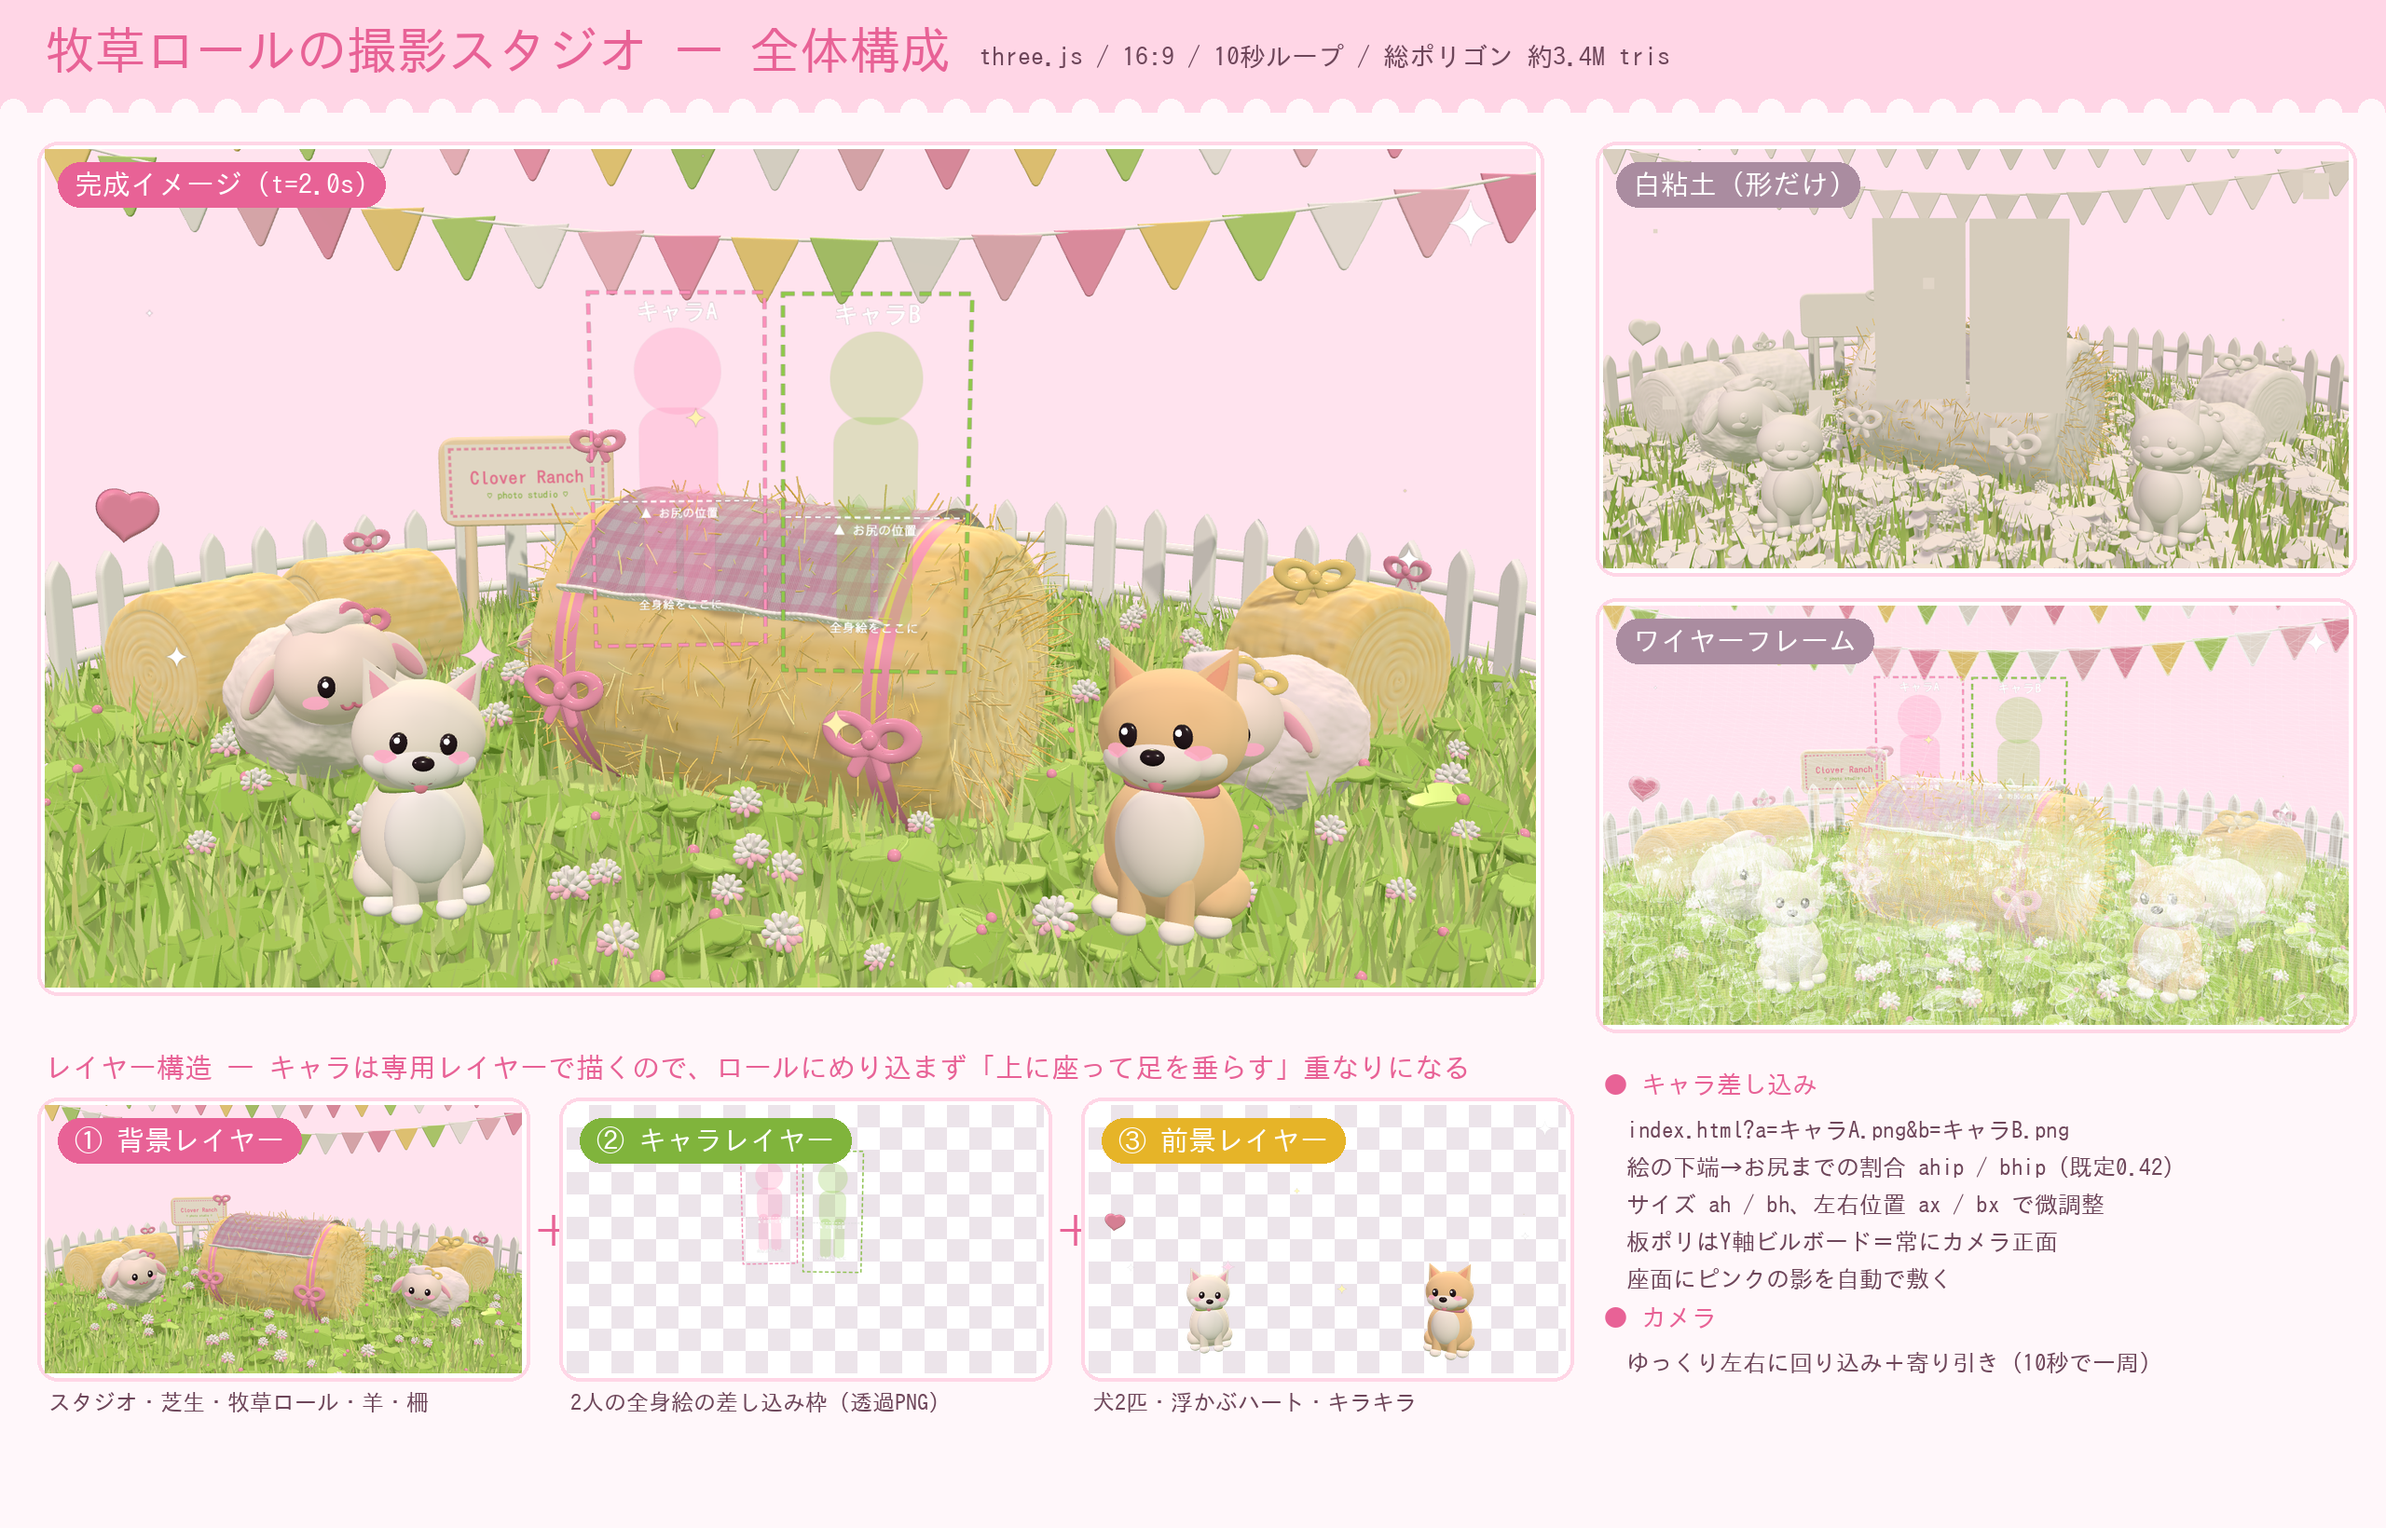
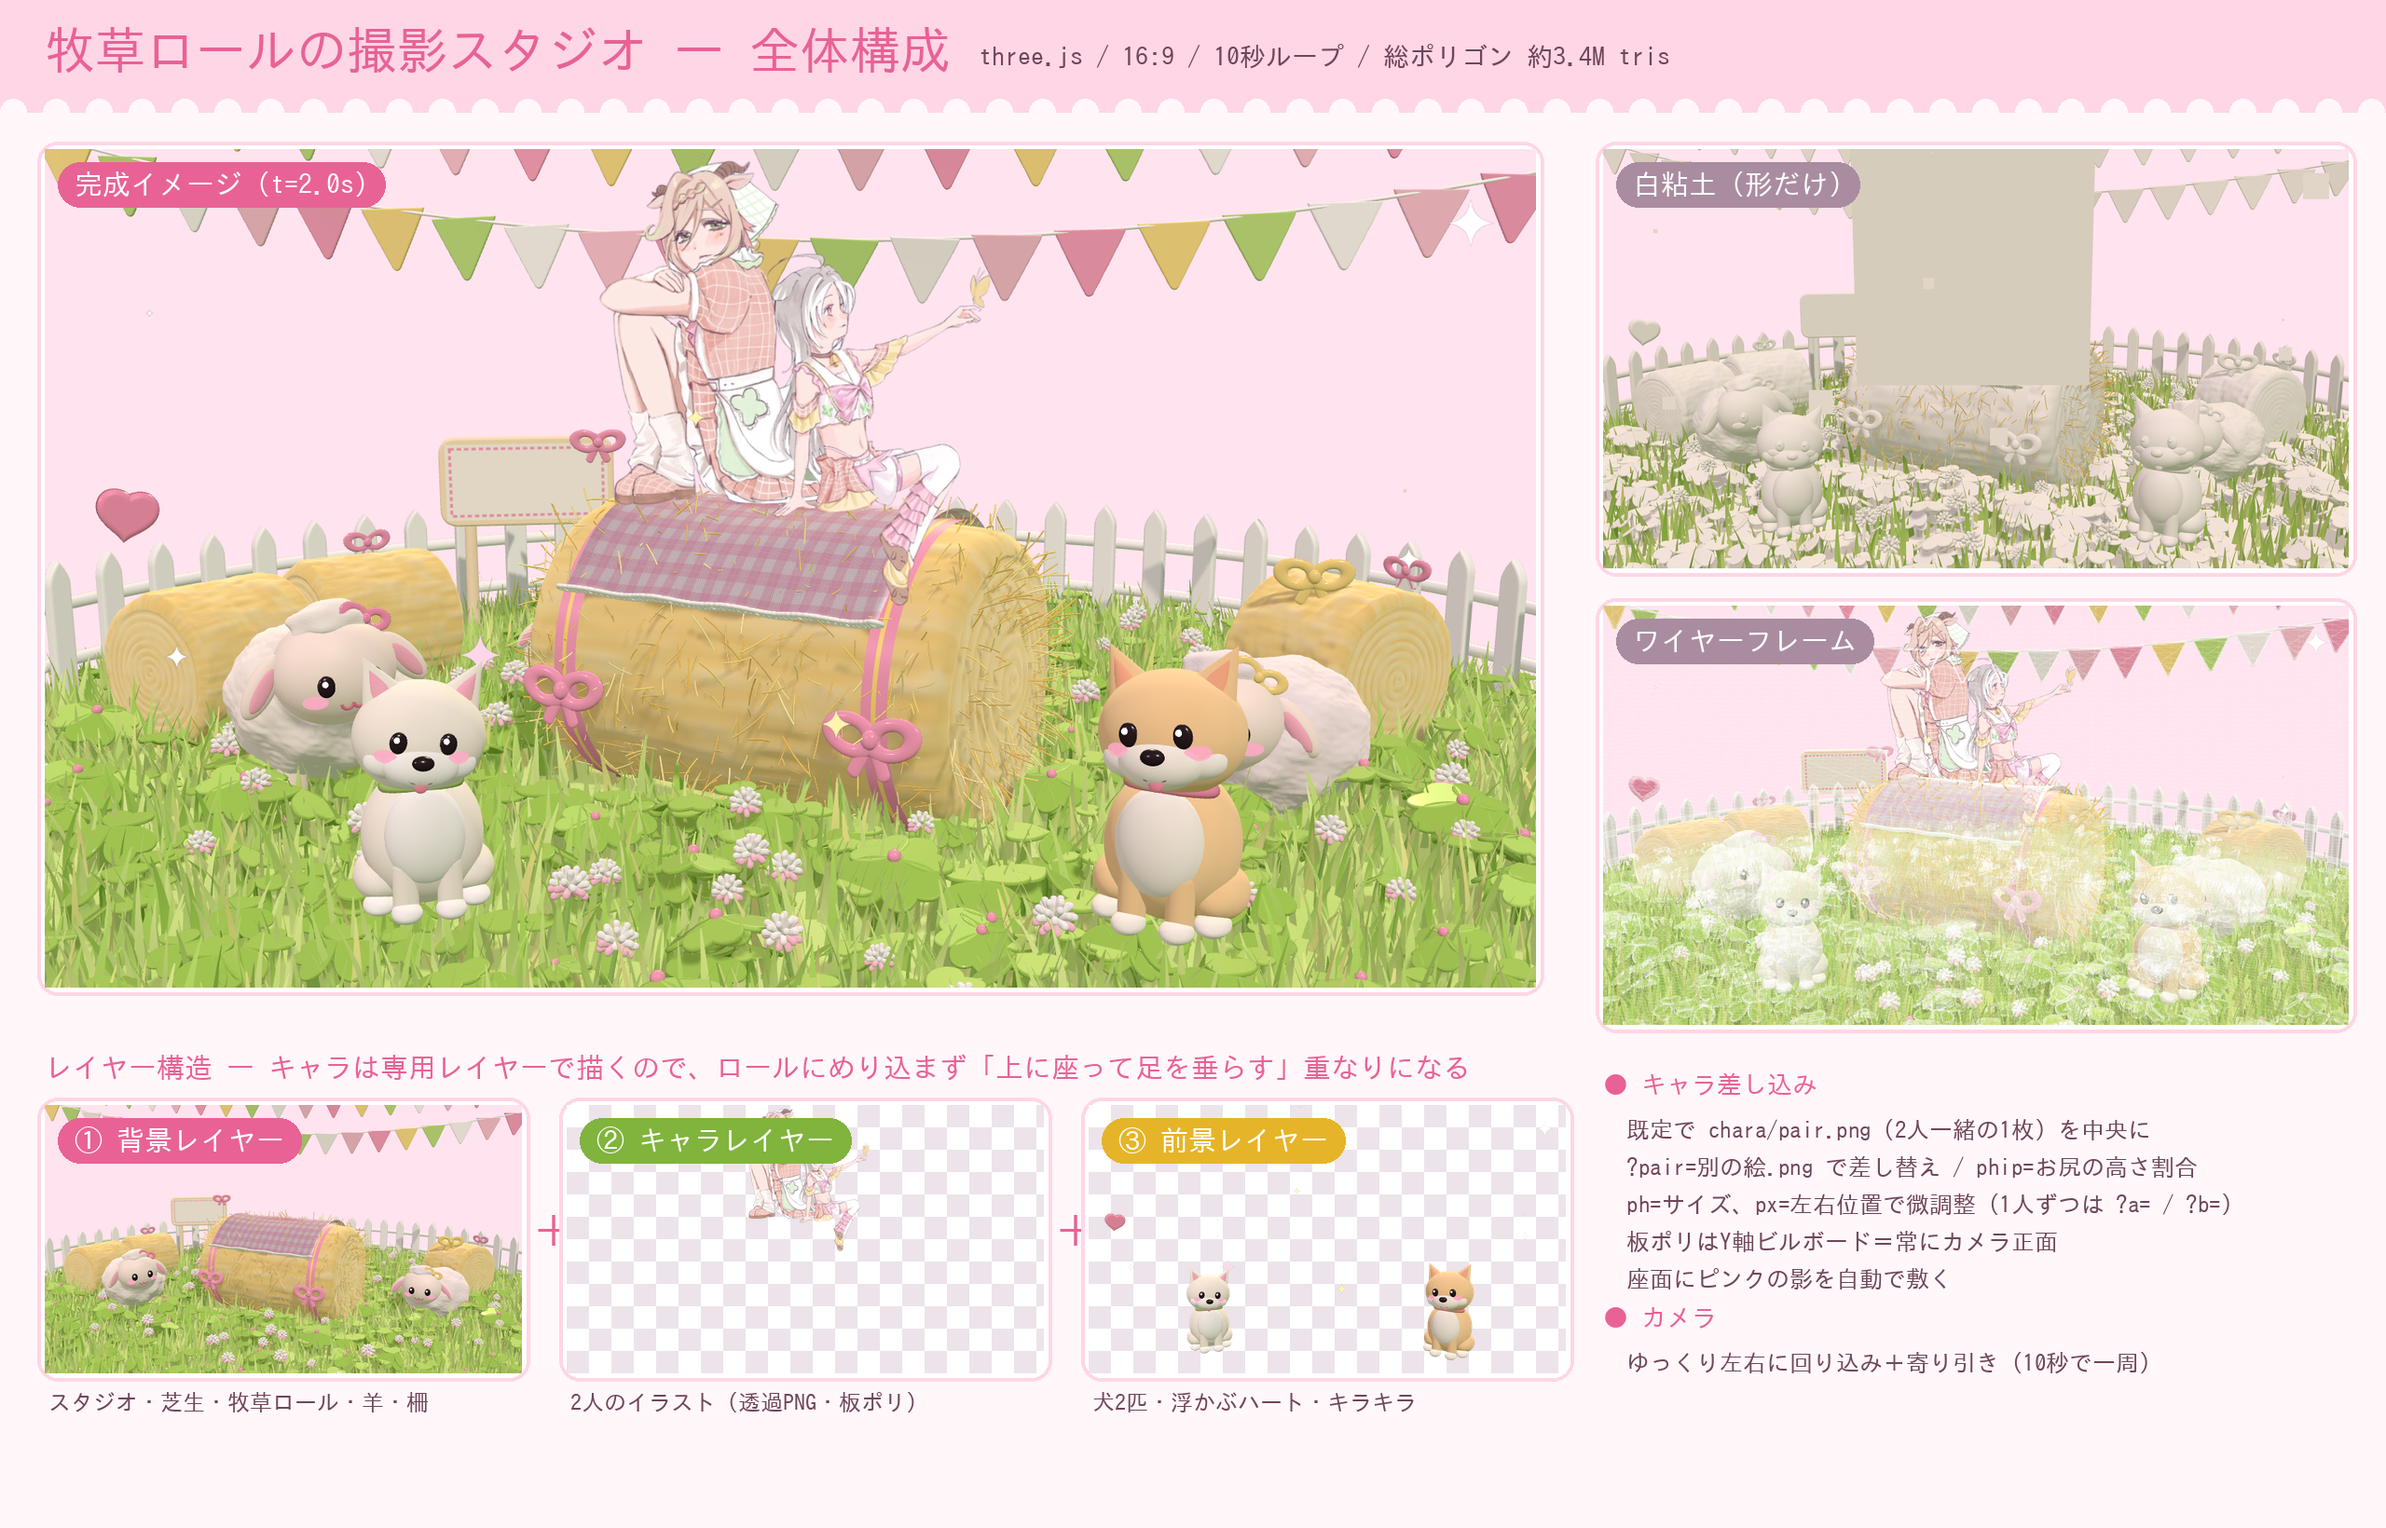
牧草ロールに2人のイラストを座らせ、看板の文字を消す
2人一緒の1枚絵 (chara/pair.png) をロール中央に配置する pair モードを追加。
イラストにはフォグをかけず元の色のまま表示。構造シートも更新。

Claude-Session: https://claude.ai/code/session_01JuB6ih2PB3w1JoY32XR6sq

diff --git a/ranch_studio/index.html b/ranch_studio/index.html
@@ -392,8 +392,7 @@ function makeSoftbox(){
 {
   const tex=canvasTex(1024,512,(g,w,h)=>{g.fillStyle='#fffaf3';g.fillRect(0,0,w,h);
     g.strokeStyle='#ff9fc4';g.lineWidth=18;g.setLineDash([28,18]);g.strokeRect(30,30,w-60,h-60);g.setLineDash([]);
-    g.fillStyle='#ff7fae';g.font='bold 120px "Comic Sans MS", "IPAGothic", sans-serif';g.textAlign='center';g.textBaseline='middle';
-    g.fillText('Clover Ranch',w/2,h/2-30);g.fillStyle='#9fd14a';g.font='bold 64px "IPAGothic", sans-serif';g.fillText('♡ photo studio ♡',w/2,h/2+90);});
+});
   const grp=new THREE.Group();const wood=new THREE.MeshStandardMaterial({color:0xffe9c7,roughness:0.8});
   const bs=new THREE.Shape();const w=1.3,h=0.65,r=0.12;bs.moveTo(-w/2+r,-h/2);bs.lineTo(w/2-r,-h/2);bs.quadraticCurveTo(w/2,-h/2,w/2,-h/2+r);bs.lineTo(w/2,h/2-r);bs.quadraticCurveTo(w/2,h/2,w/2-r,h/2);bs.lineTo(-w/2+r,h/2);bs.quadraticCurveTo(-w/2,h/2,-w/2,h/2-r);bs.lineTo(-w/2,-h/2+r);bs.quadraticCurveTo(-w/2,-h/2,-w/2+r,-h/2);
   const board=new THREE.Mesh(new THREE.ExtrudeGeometry(bs,{depth:0.06,bevelEnabled:true,bevelThickness:0.02,bevelSize:0.02,bevelSegments:4}),wood);board.castShadow=true;
@@ -554,7 +553,7 @@ function placeholderTex(label,color){
 function makeSlot(id,{x,label,color}){
   const p=k=>Q.get(id+k);
   const o={hip:+(p('hip')||0.42),h:+(p('h')||2.0),x:+(p('x')||x),z:+(p('z')||0.18)};
-  const m=new THREE.MeshBasicMaterial({map:placeholderTex(label,color),transparent:true,depthWrite:false,toneMapped:false});
+  const m=new THREE.MeshBasicMaterial({map:placeholderTex(label,color),transparent:true,depthWrite:false,toneMapped:false,fog:false});
   const plane=new THREE.Mesh(new THREE.PlaneGeometry(1,1),m);plane.layers.set(L_CHARA);
   const g=new THREE.Group();g.add(plane);scene.add(g);
   // 影 (ブランケットの上にうっすら)
@@ -572,6 +571,12 @@ function makeSlot(id,{x,label,color}){
 }
 makeSlot('a',{x:-0.6,label:'キャラA',color:'#ff8fba'});
 makeSlot('b',{x:0.6,label:'キャラB',color:'#8fc94a'});
+// 2人が1枚に描かれた絵 (既定: chara/pair.png) はロール中央にまとめて座らせる
+//   ?pair=<url> / ?pair=none でプレースホルダーに戻す / phip=お尻の高さ割合 ph=高さ px=左右
+const PAIR=Q.get('pair')??((Q.has('a')||Q.has('b'))?null:'chara/pair.png');
+if(PAIR&&PAIR!=='none'){const s=charaSlots[0],b=charaSlots[1];
+  Object.assign(s.o,{x:+(Q.get('px')||0.05),hip:+(Q.get('phip')||0.245),h:+(Q.get('ph')||2.5),z:0.15});
+  s.shadow.scale.set(2.6,1.4,1);b.g.visible=false;b.shadow.visible=false;s.pending=s.load(PAIR);}
 window.setChara=(i,url,opts)=>charaSlots[i].load(url,opts);
 anim.push((t)=>{for(const s of charaSlots){s.g.quaternion.copy(camera.quaternion);s.g.rotation.set(0,s.g.rotation.y,0);
   // 座面に固定しつつ、正面をカメラへ (Y軸ビルボード)

diff --git a/ranch_studio/make_sheets.py b/ranch_studio/make_sheets.py
@@ -47,16 +47,16 @@ y = 1130
 d.text((48, y), 'レイヤー構造 ― キャラは専用レイヤーで描くので、ロールにめり込まず「上に座って足を垂らす」重なりになる', font=font(30), fill=DEEP)
 y += 56
 for i, (f, t, sub) in enumerate([('layer_bg.png', '① 背景レイヤー', 'スタジオ・芝生・牧草ロール・羊・柵'),
-                                ('layer_chara.png', '② キャラレイヤー', '2人の全身絵の差し込み枠 (透過PNG)'),
+                                ('layer_chara.png', '② キャラレイヤー', '2人のイラスト (透過PNG・板ポリ)'),
                                 ('layer_fg.png', '③ 前景レイヤー', '犬2匹・浮かぶハート・キラキラ')]):
     x = 48 + i * 560
     card(s, d, img(f, 512, 288, checker=i > 0), x, y, t, sub, col=[DEEP, GREEN, (230,180,40)][i])
     if i < 2: d.text((x + 522, y + 110), '＋', font=font(48), fill=DEEP)
 x0 = 1720; yy = 1150
 notes = ['● キャラ差し込み',
-         '  index.html?a=キャラA.png&b=キャラB.png',
-         '  絵の下端→お尻までの割合 ahip / bhip (既定0.42)',
-         '  サイズ ah / bh、左右位置 ax / bx で微調整',
+         '  既定で chara/pair.png (2人一緒の1枚) を中央に',
+         '  ?pair=別の絵.png で差し替え / phip=お尻の高さ割合',
+         '  ph=サイズ、px=左右位置で微調整 (1人ずつは ?a= / ?b=)',
          '  板ポリはY軸ビルボード＝常にカメラ正面',
          '  座面にピンクの影を自動で敷く',
          '● カメラ',
@@ -74,7 +74,7 @@ parts = [('bale', '牧草ロール', 'ラテ(回転体)で角丸円柱 220分割
          ('whiteclover', 'シロツメクサ', 'カプセル花びらを球状に36枚\n下側だけピンク / 110本配置'),
          ('fence', '白い柵', '先の丸い杭をベベル押し出し×34本\n弧に沿ったレール2本・ところどころリボン'),
          ('garland', 'ガーランド', '懸垂曲線のひもに三角旗×46枚\nピンク・黄・黄緑・白を順番に / ゆらゆら'),
-         ('sign', '看板', '角丸ボードに「Clover Ranch」\nキャンバス描画のテクスチャを貼り付け')]
+         ('sign', '看板', '角丸ボード＋点線フチ (文字なし)\n脚2本・リボン付き')]
 CW, CH = 820, 461
 W, H = 48 + 3 * (CW + 48), 160 + 3 * (CH + 190)
 s = Image.new('RGB', (W, H), BG); d = ImageDraw.Draw(s)

diff --git a/ranch_studio/README.md b/ranch_studio/README.md
@@ -7,7 +7,10 @@
 - `make_sheets.py` … モデリング構造シート (`model_sheet/`) を作る
 
 ## キャラの差し込み
-`index.html?a=キャラA.png&b=キャラB.png`
+既定で `chara/pair.png` (2人が1枚に描かれた絵) をロール中央に座らせる。
+- `?pair=別の絵.png` で差し替え、`phip` (お尻の高さ割合, 既定0.245) / `ph` (高さ) / `px` (左右) で調整
+
+1人ずつ別の絵にする場合: `index.html?a=キャラA.png&b=キャラB.png`
 - `ahip` / `bhip` … 絵の下端からお尻までの高さの割合 (既定 0.42)
 - `ah` / `bh` … 絵の高さ、`ax` / `bx` … 左右の位置
 - キャラは専用レイヤーで描くので、ロールにめり込まずに上に座って足を垂らした重なりになる
